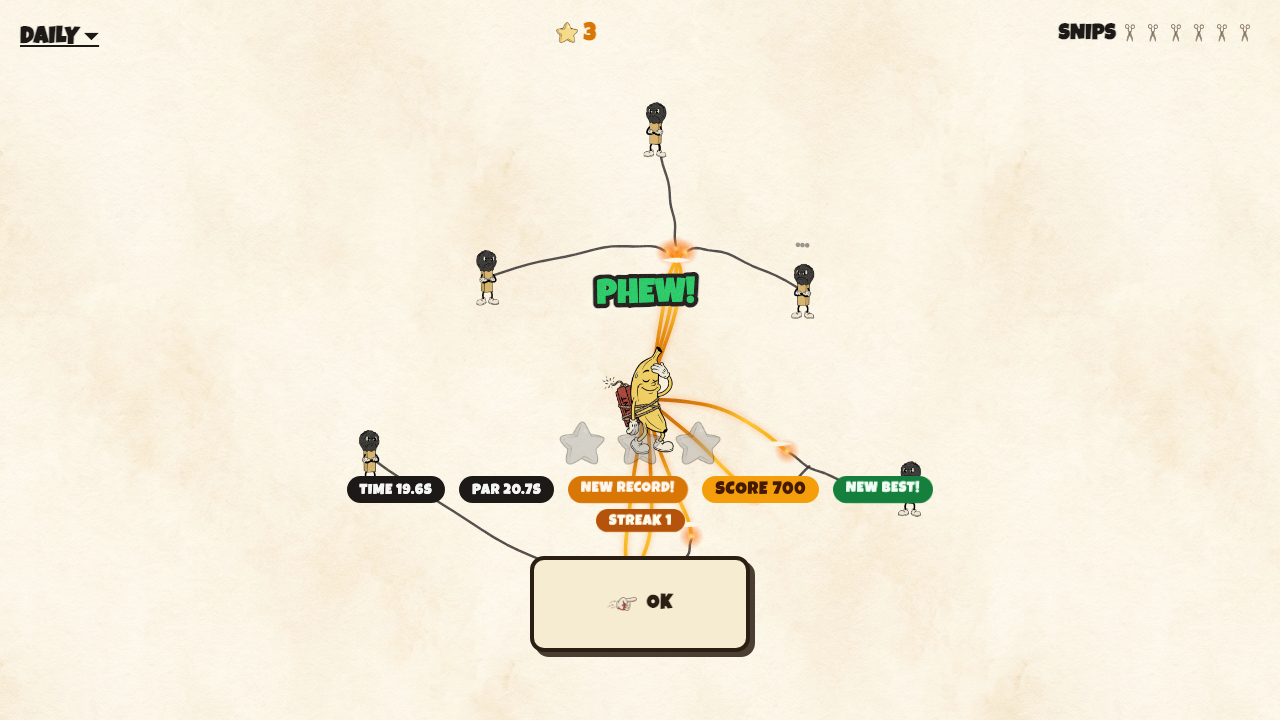
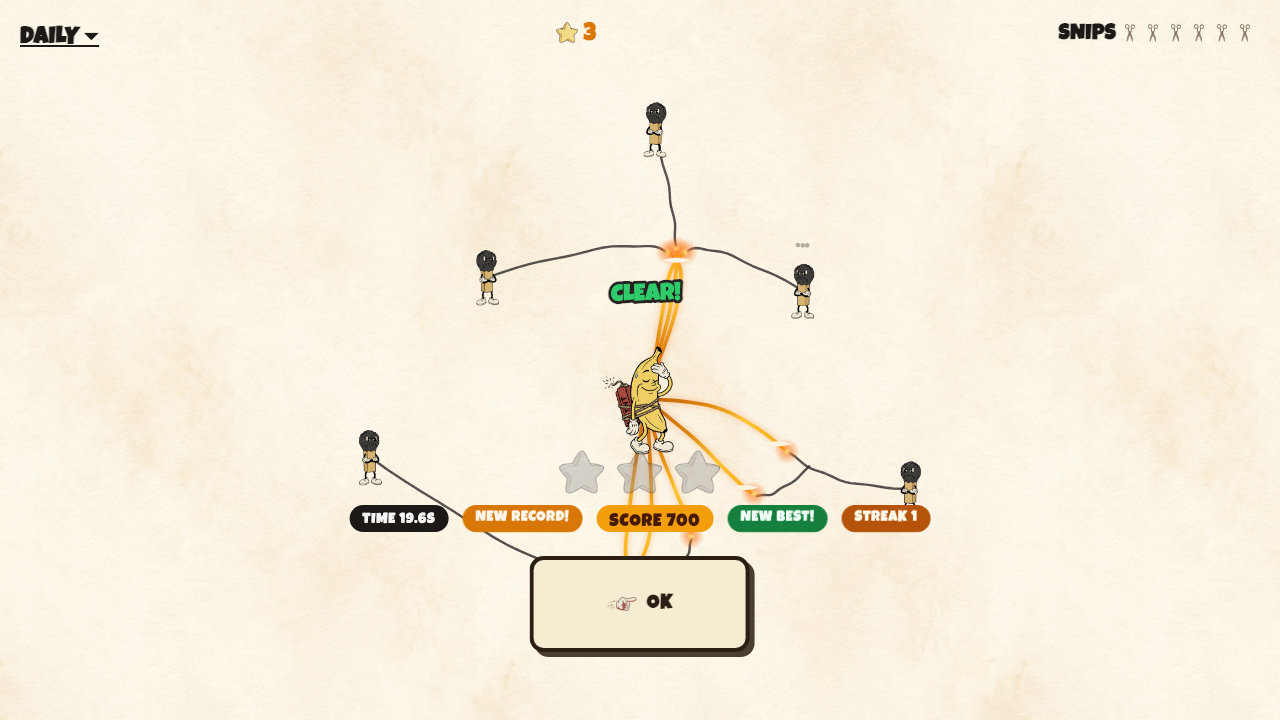
UI polish: center pills, drop PAR, smaller rotating comic words
PERFECT SNIPS and SCORE pills get more top-heavy padding so the Luckiest
Guy glyphs sit visually centered like TIME/RECORD. The PAR pill is
removed from the win modal to cut pill clutter (par stays in level data
for analytics and tuning). KABOOM!/PHEW! shrink from 36px to 26px and
rotate per attempt through 6-word pools picked at _finishLevel, so the
big win/lose beat isn't always the same two words.

Changed region(s): [[0.25, 0.5806, 0.75, 0.7639], [0.4375, 0.3667, 0.5625, 0.4278]]

diff --git a/src/engine/Renderer.js b/src/engine/Renderer.js
@@ -14,6 +14,14 @@ const REACTION_WORDS = {
     spawnDud: ["?", "WHEW", "OK?", "PHEW", "SAFE", "..."],
 };
 
+// Comic words for the big win/lose beats. Picked per attempt (stored on the
+// game state at _finishLevel) so the same level rotates through the set instead
+// of always popping the same two words.
+export const COMIC_WORDS = {
+    won: ["PHEW!", "SAFE!", "WHEW!", "OFF!", "DODGED!", "CLEAR!"],
+    lost: ["KABOOM!", "BOOM!", "BANG!", "BLAM!", "KERBOOM!", "WHAM!"],
+};
+
 /** Deterministic pick from a word list keyed on level + node id, so a character
  *  always says the same thing within a level but it varies across levels. */
 function pickReactionWord(levelId, nodeId, list) {
@@ -143,8 +151,8 @@ export class Renderer {
         // behind the matchstick and banana, not over them.
         if (game.gameState === "playing") this._drawSparkEffects(game);
         this._drawAssets(game);
-        if (game.gameState === "lost") this._drawComicText(game, "KABOOM!", "#ef4444", game.lostAt);
-        if (game.gameState === "won") this._drawComicText(game, "PHEW!", "#22c55e", game.wonAt);
+        if (game.gameState === "lost") this._drawComicText(game, game.comicWord || "KABOOM!", "#ef4444", game.lostAt);
+        if (game.gameState === "won") this._drawComicText(game, game.comicWord || "PHEW!", "#22c55e", game.wonAt);
         this._drawSwipePreview(game);
         this._drawSnipFeedback(game);
         // Onboarding demo hand rides on top of everything while the tutorial is up.
@@ -585,11 +593,11 @@ export class Renderer {
         ctx.translate(node.x, ty);
         ctx.rotate(-0.08 + wobble);
         ctx.scale(pop, pop);
-        ctx.font = "36px 'Luckiest Guy', 'Courier New', Courier, monospace";
+        ctx.font = "26px 'Luckiest Guy', 'Courier New', Courier, monospace";
         ctx.textAlign = "center";
         ctx.textBaseline = "middle";
         ctx.lineJoin = "round";
-        ctx.lineWidth = 10;
+        ctx.lineWidth = 7;
         ctx.strokeStyle = "#1c1917";
         ctx.strokeText(text, 0, 0);
         ctx.fillStyle = color;

diff --git a/src/engine/GameLoop.js b/src/engine/GameLoop.js
@@ -1,6 +1,7 @@
 // GameLoop.js — rAF loop, state machine, and the simulation.
 // Owns all mutable game state. Renders through the injected Renderer.
 import { getBezierXY, distToSegment, clamp } from "./MathUtils.js";
+import { COMIC_WORDS } from "./Renderer.js";
 
 export const STATE = { PLAYING: "playing", WON: "won", LOST: "lost", PAUSED: "paused" };
 
@@ -41,6 +42,7 @@ export class GameLoop {
         this.lastLevelWin = null;
         this.lostAt = null; // frameCount when the bomb detonated (drives the blast FX)
         this.wonAt = null; // frameCount when the level was defused (drives the win text)
+        this.comicWord = null; // comic word for the win/lose beat, picked per attempt
         this.tutorialActive = false;
         this.multikills = []; // { x, y, count, at } — one snip severed N wicks (banking popup)
         this._chime = null; // ascending coin-chime queue for multi-cuts
@@ -347,6 +349,7 @@ export class GameLoop {
             this.gameState = STATE.WON;
             this.wonAt = this.frameCount;
             this.lastLevelWin = stars;
+            this.comicWord = COMIC_WORDS.won[Math.floor(Math.random() * COMIC_WORDS.won.length)];
             if (this.analytics) {
                 this.analytics.track("level_win", {
                     level: this.level.level_id, stars, attempts: this.attempts,
@@ -361,6 +364,7 @@ export class GameLoop {
             this.gameState = STATE.LOST;
             this.lostAt = this.frameCount;
             this.failCount++;
+            this.comicWord = COMIC_WORDS.lost[Math.floor(Math.random() * COMIC_WORDS.lost.length)];
             if (this.audio) this.audio.play("blast");
             if (this.analytics) {
                 this.analytics.track("level_fail", {

diff --git a/style.css b/style.css
@@ -205,9 +205,9 @@ canvas { display: block; position: absolute; z-index: 10; }
     text-transform: uppercase;
 }
 #win-stats .stat.record { background: #d97706; color: #fff7ed; animation: win-record-pulse 0.9s ease-in-out infinite alternate; }
-#win-stats .stat.perfect { background: #16a34a; color: #f0fdf4; }
+#win-stats .stat.perfect { background: #16a34a; color: #f0fdf4; padding: 8px 13px 1px; } /* larger-glyph pills need more top-heavy padding */
 #win-stats .stat.streak { background: #b45309; color: #fffbeb; animation: win-record-pulse 0.9s ease-in-out infinite alternate; }
-#win-stats .stat.score { background: #f59e0b; color: #451a03; font-size: 1.1rem; }
+#win-stats .stat.score { background: #f59e0b; color: #451a03; font-size: 1.1rem; padding: 9px 13px 0; }
 #win-stats .stat.best { background: #15803d; color: #f0fdf4; animation: win-record-pulse 0.9s ease-in-out infinite alternate; }
 @keyframes win-record-pulse { from { transform: scale(1); } to { transform: scale(1.08); } }
 

diff --git a/src/main.js b/src/main.js
@@ -56,7 +56,6 @@ const tutorialText = $("tutorial-text");
 const btnTutorialNext = $("tutorial-next");
 const winStars = $("win-stars");
 const winTime = $("win-time");
-const winPar = $("win-par");
 const winRecord = $("win-record");
 const winPerfect = $("win-perfect");
 const winPerfectCount = $("win-perfect-count");
@@ -305,9 +304,7 @@ game.onLevelComplete = (levelId, stars, won) => {
         // Speed record: clear time vs the level's par, plus perfect-snip count.
         const seconds = Math.round((game.clearFrames / 60) * 10) / 10;
         const isRecord = save.setBestTime(levelId, seconds);
-        const config = levels.find((l) => l.level_id === levelId);
         winTime.textContent = `TIME ${seconds.toFixed(1)}s`;
-        winPar.textContent = config?.par != null ? `PAR ${config.par.toFixed(1)}s` : "";
         winRecord.style.display = isRecord ? "inline-block" : "none";
 
         // Efficiency score: fewer snips used → higher. Fewest snips = most

diff --git a/index.html b/index.html
@@ -132,7 +132,6 @@
         <div id="win-stars" class="win-stars"></div>
         <div id="win-stats">
             <span class="stat" id="win-time">TIME --</span>
-            <span class="stat" id="win-par">PAR --</span>
             <span class="stat record" id="win-record" style="display: none;">NEW RECORD!</span>
             <span class="stat perfect" id="win-perfect" style="display: none;">PERFECT SNIPS <span id="win-perfect-count"></span></span>
             <span class="stat score" id="win-score">SCORE --</span>
